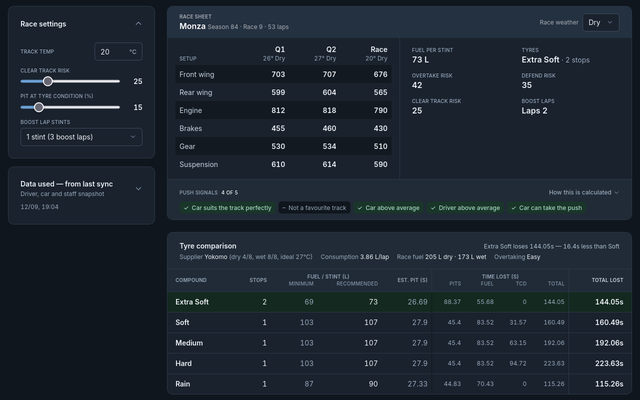
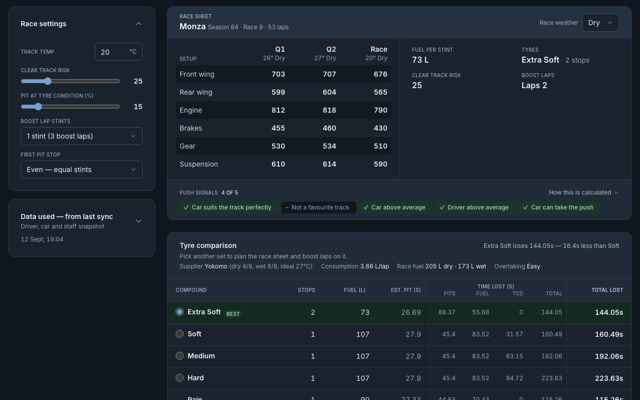
Strategy stops suggesting overtake and defend risks (1.21.43)
Managers copying the suggestion would feed the risk model back its own
numbers, so it could never learn which settings actually pay off. The
race engineer keeps the advice; boost laps and clear track risk stay on
the race sheet. Landing copy, its Strategy screenshots and the README no
longer advertise the suggestion.

diff --git a/src/Controller/StrategyController.php b/src/Controller/StrategyController.php
@@ -5,19 +5,15 @@ declare(strict_types=1);
 namespace App\Controller;
 
 use App\Engineer\GroupStanding;
-use App\Engineer\PlaceGap;
-use App\Engineer\RiskModel;
 use App\Http\Request;
 use App\Http\Sections;
 use App\Security\Authorize;
 use App\Service\StrategyService;
 use App\Service\SetupCalculatorService;
-use App\Service\CtrModelService;
 use App\Service\GproApiClient;
 use App\Service\GproDataMapper;
 use App\Service\RaceWeatherService;
 use App\Service\RiskAdvisorService;
-use App\Service\RiskModelService;
 use App\Service\PhaMatchService;
 use App\Service\CarWearService;
 use App\Service\WearAdvisorService;
@@ -53,8 +49,6 @@ class StrategyController
         private readonly PhaMatchService $phaMatch,
         private readonly CarWearService $carWear,
         private readonly Environment $twig,
-        private readonly ?RiskModelService $riskModels = null,
-        private readonly ?CtrModelService $ctrModel = null,
     ) {
     }
 
@@ -319,28 +313,9 @@ class StrategyController
             // The group feeds only power the advisory cards — never let a
             // hiccup there fail the whole strategy calc.
             $menu = $this->fetchQuietly(fn(): array => $this->api->getMenu());
-            $season = (int)($office['seasonNb'] ?? 0);
 
-            $strategyResults['risk_advice'] = $this->riskAdvisor->advise(
-                $driver,
-                [
-                    'overtaking' => $strategyResults['overtaking'] ?? null,
-                    'grip'       => $strategyResults['track_grip'] ?? null,
-                    'tyre_wear'  => $strategyResults['track_tyre_wear'] ?? null,
-                    'distance'   => (float)($strategyResults['track_distance'] ?? 0),
-                ],
-                $raceIsWet,
-                $rain['race_rain_avg'],
-                [
-                    'division' => RiskAdvisorService::divisionFromGroup((string)($menu['group'] ?? '')),
-                    'laps'     => (int)$inputs['laps'],
-                    'ctr'      => (int)$inputs['risk'],
-                    'grid'     => null,
-                ],
-                $this->riskModels?->model($season) ?? RiskModel::fallback(),
-                $this->ctrModel?->placeGap($season) ?? PlaceGap::fallback(),
-            );
-
+            // No overtake/defend suggestion here on purpose: managers copying it
+            // would leave the risk model no varied choices to learn from.
             $strategyResults['push_signals'] = $this->buildPushSignals(
                 $weatherData,
                 $carRaw,
@@ -367,7 +342,7 @@ class StrategyController
             $strategyResults['race'] = $office['raceNb'] ?? '?';
             // $raceIsWet (forecast default, user-overridable via the Race
             // weather select) keeps the verdict coherent with the setup
-            // column, risk advice and push signals on the same card.
+            // column, boost laps and push signals on the same card.
             $strategyResults['best_compound'] = self::pickBestCompound(
                 $strategyResults['tyres'] ?? [],
                 $raceIsWet,
@@ -383,7 +358,7 @@ class StrategyController
             // Boost laps follow the set the manager races on: its stop count
             // and pit laps (already shaped by the first-stop choice).
             $plannedTyre = $strategyResults['tyres'][$strategyResults['chosen_compound']] ?? null;
-            $strategyResults['risk_advice']['boost'] = $this->riskAdvisor->suggestBoostLaps(
+            $strategyResults['boost'] = $this->riskAdvisor->suggestBoostLaps(
                 (int)$inputs['laps'],
                 (int)($plannedTyre['stops'] ?? 0),
                 $raceIsWet,

diff --git a/bootstrap.php b/bootstrap.php
@@ -462,8 +462,6 @@ $container['controller.strategy'] = new StrategyController(
     $container['service.pha_match'],
     $container['service.car_wear'],
     $container['twig'],
-    $container['service.risk_model'],
-    $container['service.ctr_model'],
 );
 
 $container['controller.auth'] = new AuthController(

diff --git a/README.md b/README.md
@@ -34,10 +34,9 @@ wait on GPRO: one whose data isn't cached yet opens as an outline and fills in w
   total time cost rather than tyre life alone. Clear Track Risk is priced as a trade:
   added wear against clear-air time gained. The **Race sheet** lists the setup part by part
   for Q1, Q2 and the race as GPRO's form does, with start fuel and the fuel for each pit stop,
-  tyres, overtake and defend risks and boost laps, plus plain-worded **push signals** for the
-  risk dial. The overtake and defend risks are learned from race outcomes (places won against
-  driver mistakes, in seconds) and blended with a rule of thumb that fades out as replays
-  accumulate; the sheet says which one you are looking at. The first pit stop can come early, even or late, and you can race on a set other
+  tyres and boost laps, plus plain-worded **push signals** for the risk dial. It leaves
+  overtake and defend risks to the manager, so the race engineer's model learns from varied
+  choices rather than its own suggestion. The first pit stop can come early, even or late, and you can race on a set other
   than the best one; the sheet and boost laps follow it. Every setting recalculates
   as it changes.
 - **Testing** — the testing track's demands vs your car, the points split across Test /

diff --git a/CHANGELOG.md b/CHANGELOG.md
@@ -6,6 +6,14 @@ The format follows [Keep a Changelog](https://keepachangelog.com/en/1.1.0/) and 
 project adheres to [Semantic Versioning](https://semver.org/spec/v2.0.0.html).
 Every release is published as an annotated git tag of the same name.
 
+## [1.21.43] - 2026-11-11
+
+### Changed
+- Strategy no longer suggests overtake and defend risks. Managers copying the suggestion would feed the risk
+  model back its own numbers, so it could never learn which settings actually pay off. The race engineer keeps
+  the advice. Boost laps and clear track risk stay on the race sheet; the landing page,
+  its Strategy screenshots and the README no longer advertise the suggestion.
+
 ## [1.21.42] - 2026-11-11
 
 ### Changed
